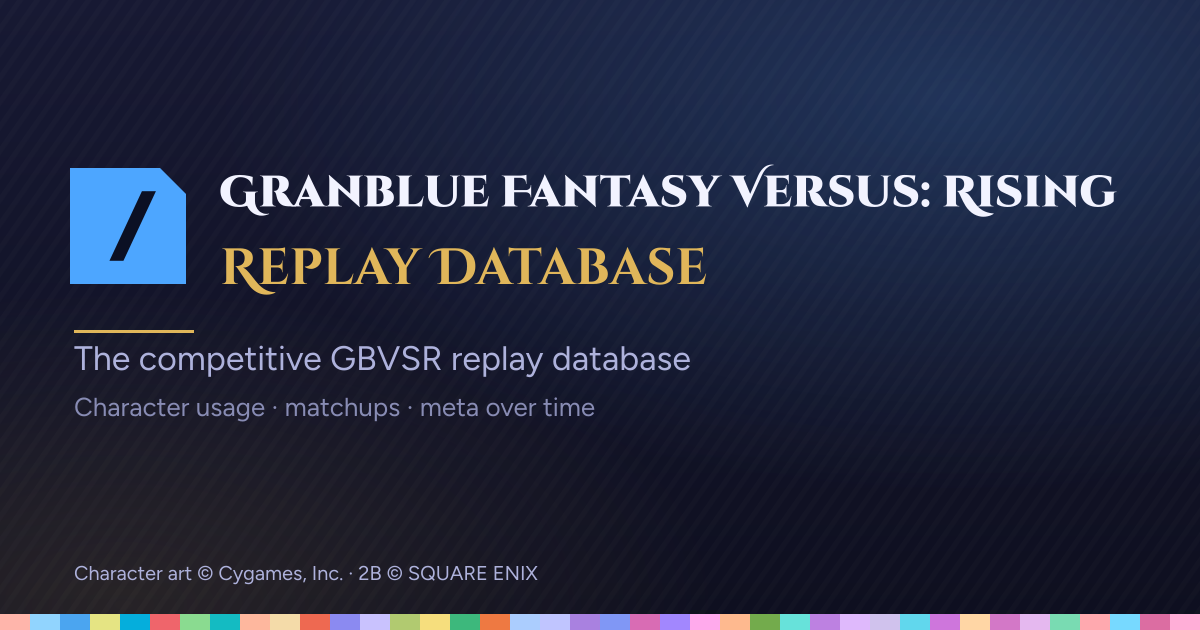
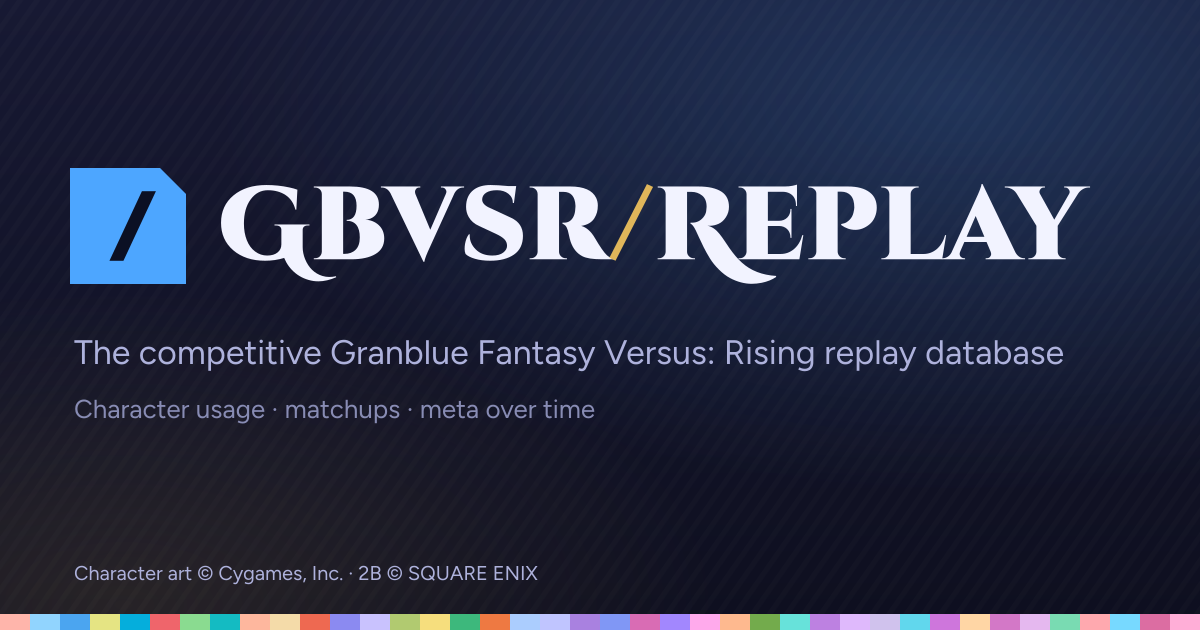
The OG card carries the platform lockup, GBVSR/REPLAY
The first cut set the full title over "Replay Database" in two lines of
Cinzel Decorative. Every sibling card draws SHORTNAME/REPLAY beside the
badge, and the shell's selector byte-copies this file, so Granblue's card
was the one on the grid that did not match.

The wordmark is fitted to the column as Strive's is (capped at 104px),
cap line badge-centred, the slash in gilt. It is written mixed case
("Gbvsr/Replay") because this face draws its swash capitals on the
uppercase codepoints and plain capitals on the lowercase ones: one swash
initial per word, as the old title had. The full name moves into the first
prose line, where Strive's and CotW's sit, and the gilt rule goes, since no
sibling has one. Credit line, stripe and font gate are unchanged.

Changed region(s): [[0.185, 0.2714, 0.925, 0.4825], [0.0617, 0.5127, 0.8942, 0.6032], [0.0617, 0.6333, 0.4933, 0.6635]]

diff --git a/scripts/og.ts b/scripts/og.ts
@@ -457,12 +457,17 @@ const TEXT = '#F2F3FF';
 const TEXT_MUTED = '#AEB2DC';
 const TEXT_FAINT = '#888CB4';
 
-const TITLE_1 = 'Granblue Fantasy Versus: Rising';
-const TITLE_2 = 'Replay Database';
-/** The siblings' two prose lines: "The competitive <name> replay database",
- *  then the platform tagline. The title already spells the full name, so the
- *  first line uses app.config.ts `shortName` rather than repeating it. */
-const LINE_1 = 'The competitive GBVSR replay database';
+/** The platform lockup every sibling card carries: SHORTNAME/REPLAY, the
+ *  slash in the game's secondary. Written in MIXED CASE on purpose: this face's
+ *  uppercase codepoints draw its swash capitals and its lowercase ones the plain
+ *  Roman capitals (see the gate above), so "Gbvsr" renders as GBVSR with one
+ *  swash initial. All-caps input would set every letter as a swash. */
+const WORD_A = 'Gbvsr';
+const WORD_B = 'Replay';
+/** The siblings' two prose lines: "The competitive <full name> replay
+ *  database", then the platform tagline. The wordmark carries the short name,
+ *  so the full title lives here, as Strive's and CotW's do. */
+const LINE_1 = 'The competitive Granblue Fantasy Versus: Rising replay database';
 export const TAGLINE = 'Character usage · matchups · meta over time';
 
 /**
@@ -515,19 +520,21 @@ export async function renderOgCard(
   const textLeft = BX + BADGE + 34;
   const colW = W - textLeft - BX;
 
-  // FITTED, NOT PINNED: 31 glyphs of a wide display serif. Both title lines
-  // share the badge's height: line 1's cap line on the badge top, line 2's
-  // baseline on the badge bottom.
-  const t1Size = fitSize(fonts.display, TITLE_1, colW, 60);
-  const t2Size = fitSize(fonts.displayBold, TITLE_2, colW, Math.round(t1Size * 1.15));
-  const t1Base = BY + capHeight(fonts.display, t1Size);
-  const t2Base = BY + BADGE;
+  // FITTED, NOT PINNED, as Strive's: the largest size at which the whole
+  // wordmark ends inside the right margin, capped at 104 (CotW's pinned size)
+  // so a short mark never balloons. Cap line badge-centred, as every sibling's.
+  const wordmark = `${WORD_A}/${WORD_B}`;
+  const wordSize = fitSize(fonts.display, wordmark, colW, 104);
+  const aW = widthOf(fonts.display, WORD_A, wordSize);
+  const slashW = widthOf(fonts.display, '/', wordSize);
+  const wordBase = BY + BADGE / 2 + wordSize * 0.32;
 
   const parts: string[] = [];
-  parts.push(outlines(fonts.display, TITLE_1, t1Size, TEXT, textLeft, t1Base));
-  parts.push(outlines(fonts.displayBold, TITLE_2, t2Size, GILT, textLeft, t2Base));
+  parts.push(outlines(fonts.display, WORD_A, wordSize, TEXT, textLeft, wordBase));
+  parts.push(outlines(fonts.display, '/', wordSize, GILT, textLeft + aW, wordBase));
+  parts.push(outlines(fonts.display, WORD_B, wordSize, TEXT, textLeft + aW + slashW, wordBase));
   parts.push(
-    outlines(fonts.ui, LINE_1, fitSize(fonts.ui, LINE_1, W - 2 * BX, 34), TEXT_MUTED, BX + 4, 370),
+    outlines(fonts.ui, LINE_1, fitSize(fonts.ui, LINE_1, W - 2 * BX, 34), TEXT_MUTED, BX + 4, 364),
   );
   parts.push(
     outlines(
@@ -536,7 +543,7 @@ export async function renderOgCard(
       fitSize(fonts.ui, TAGLINE, W - 2 * BX, 26),
       TEXT_FAINT,
       BX + 4,
-      416,
+      418,
     ),
   );
   // The notice: 20px in the muted text colour, the size the site footer sets
@@ -573,8 +580,6 @@ export async function renderOgCard(
     `H${BX} Z" fill="${PRIMARY}"/>` +
     `<path d="M${BX + BADGE * 0.62} ${BY + BADGE * 0.2} L${BX + BADGE * 0.34} ${BY + BADGE * 0.8} ` +
     `l14 0 L${BX + BADGE * 0.62 + 14} ${BY + BADGE * 0.2} Z" fill="${PRIMARY_CONTRAST}"/>` +
-    // a gilt rule between the title and the prose
-    `<rect x="${BX + 4}" y="${BY + BADGE + 46}" width="120" height="3" fill="${GILT}"/>` +
     stripe +
     parts.join('') +
     `</svg>`;
@@ -593,7 +598,7 @@ export async function renderOgCard(
     bytes: png.length,
     sha256: createHash('sha256').update(png).digest('hex'),
     summary:
-      `${W}×${H}, ${glyphs} glyph outline(s) (title ${t1Size}/${t2Size}px), ` +
+      `${W}×${H}, ${glyphs} glyph outline(s) (wordmark ${wordSize}px), ` +
       `${roster.length}-segment roster stripe, ` +
       (credit ? `notice ${JSON.stringify(credit)} baked in` : 'NO art credit (generated art)') +
       `, no Fan Kit art on the card\n  fonts verified: ${proof}` +
